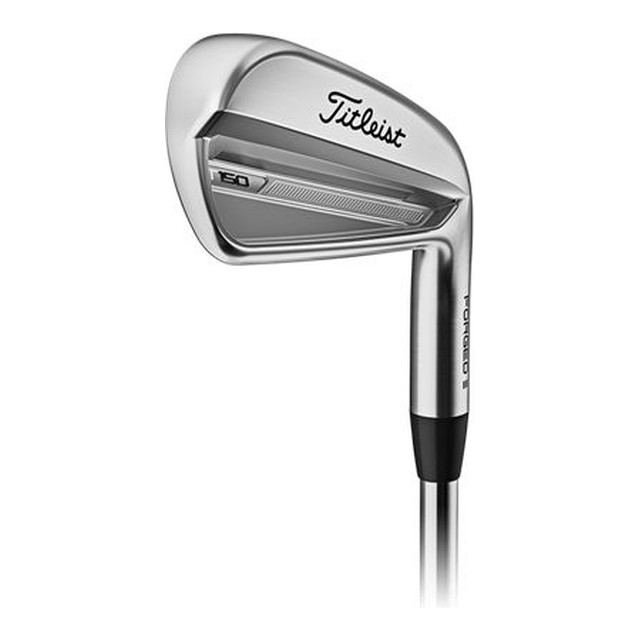
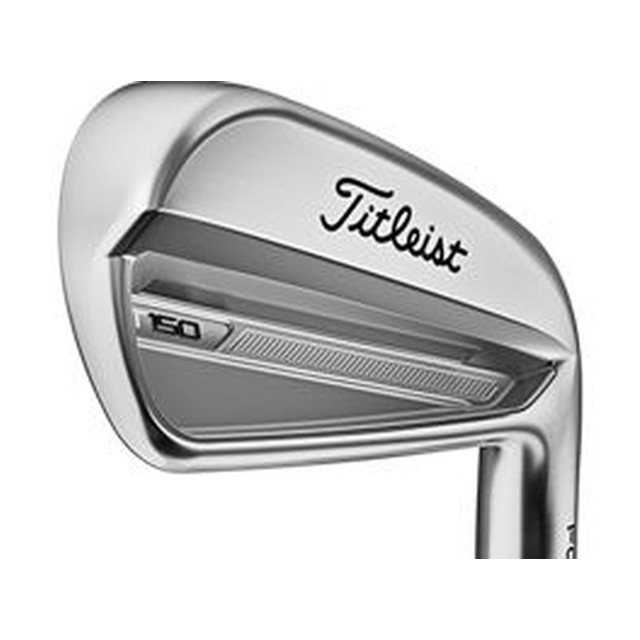
Encuadrar la cabeza del hierro y mostrar el paso SureFit de 0,75°.
La foto del T150 queda recortada a la cabeza para que el recuadro pese como el driver. El ajuste publicado deja de redondearse a 1°.

diff --git a/web/public/sw.js b/web/public/sw.js
@@ -1,5 +1,5 @@
 /* Golflet SW: offline shell only. Never caches /api (private data) or auth. */
-const CACHE = 'golflet-v137';
+const CACHE = 'golflet-v138';
 const SHELL = ['/', '/login', '/style.css', '/tokens.css', '/quick-stats.js', '/app.js', '/reconstruct.js', '/photo-crop.js', '/groups.js', '/recap-rules.js', '/smooth-path.js', '/plan-core.js', '/match-core.js', '/match.js', '/plan.js', '/libreta.js', '/subir.js', '/autoshot.js', '/play-rules.js', '/club-gear.js', '/track.js', '/sync-anim.js', '/sync-live.js', '/sync-kit.js', '/sync-tracer.js', '/sync-booklet.js', '/fonts/fonts.css', '/fonts/Geist-400.woff2', '/fonts/Geist-500.woff2', '/fonts/Geist-600.woff2', '/manifest.webmanifest', '/icons/icon-192.png', '/brand/caddie.png'];
 self.addEventListener('install', e => { e.waitUntil(caches.open(CACHE).then(c => c.addAll(SHELL)).catch(() => {})); self.skipWaiting(); });
 self.addEventListener('activate', e => { e.waitUntil(caches.keys().then(ks => Promise.all(ks.filter(k => k !== CACHE).map(k => caches.delete(k))))); self.clients.claim(); });

diff --git a/web/lib/maker-specs.ts b/web/lib/maker-specs.ts
@@ -115,7 +115,7 @@ function linesOf(row: MakerRow): { label: string; value: string }[] {
   if (row.lieDeg != null) out.push({ label: "Lie publicado", value: loftLabel(row.lieDeg) });
   if (row.lengthIn != null) out.push({ label: "Largo publicado", value: `${String(row.lengthIn).replace(".", ",")} in` });
   if (row.volumeCc != null) out.push({ label: "Volumen publicado", value: `${row.volumeCc} cc` });
-  if (row.hoselStepDeg != null) out.push({ label: "Ajuste publicado", value: `Pasos de ${loftLabel(row.hoselStepDeg)} en loft y lie. No es el loft de tu palo.` });
+  if (row.hoselStepDeg != null) out.push({ label: "Ajuste publicado", value: `Pasos de ${String(row.hoselStepDeg).replace(".", ",")}° en loft y lie. No es el loft de tu palo.` });
   for (const note of row.notes || []) out.push({ label: "Ficha", value: note });
   return out;
 }

diff --git a/web/tests/ui-batch.test.ts b/web/tests/ui-batch.test.ts
@@ -19,7 +19,7 @@ test("the closed hole can be edited and the satellite note is gone", () => {
   assert.match(track, /Editar hoyo/);
   assert.match(track, /id="play-shot-editor"/);
   assert.doesNotMatch(track, /Satélite real/);
-  assert.match(sw, /golflet-v137/);
+  assert.match(sw, /golflet-v138/);
   const groups = readFileSync(new URL("../public/groups.js", import.meta.url), "utf8");
   assert.match(groups, /x\.v === rows\[i - 1\]\.v/);
   assert.match(groups, /Pocas tarjetas/);
